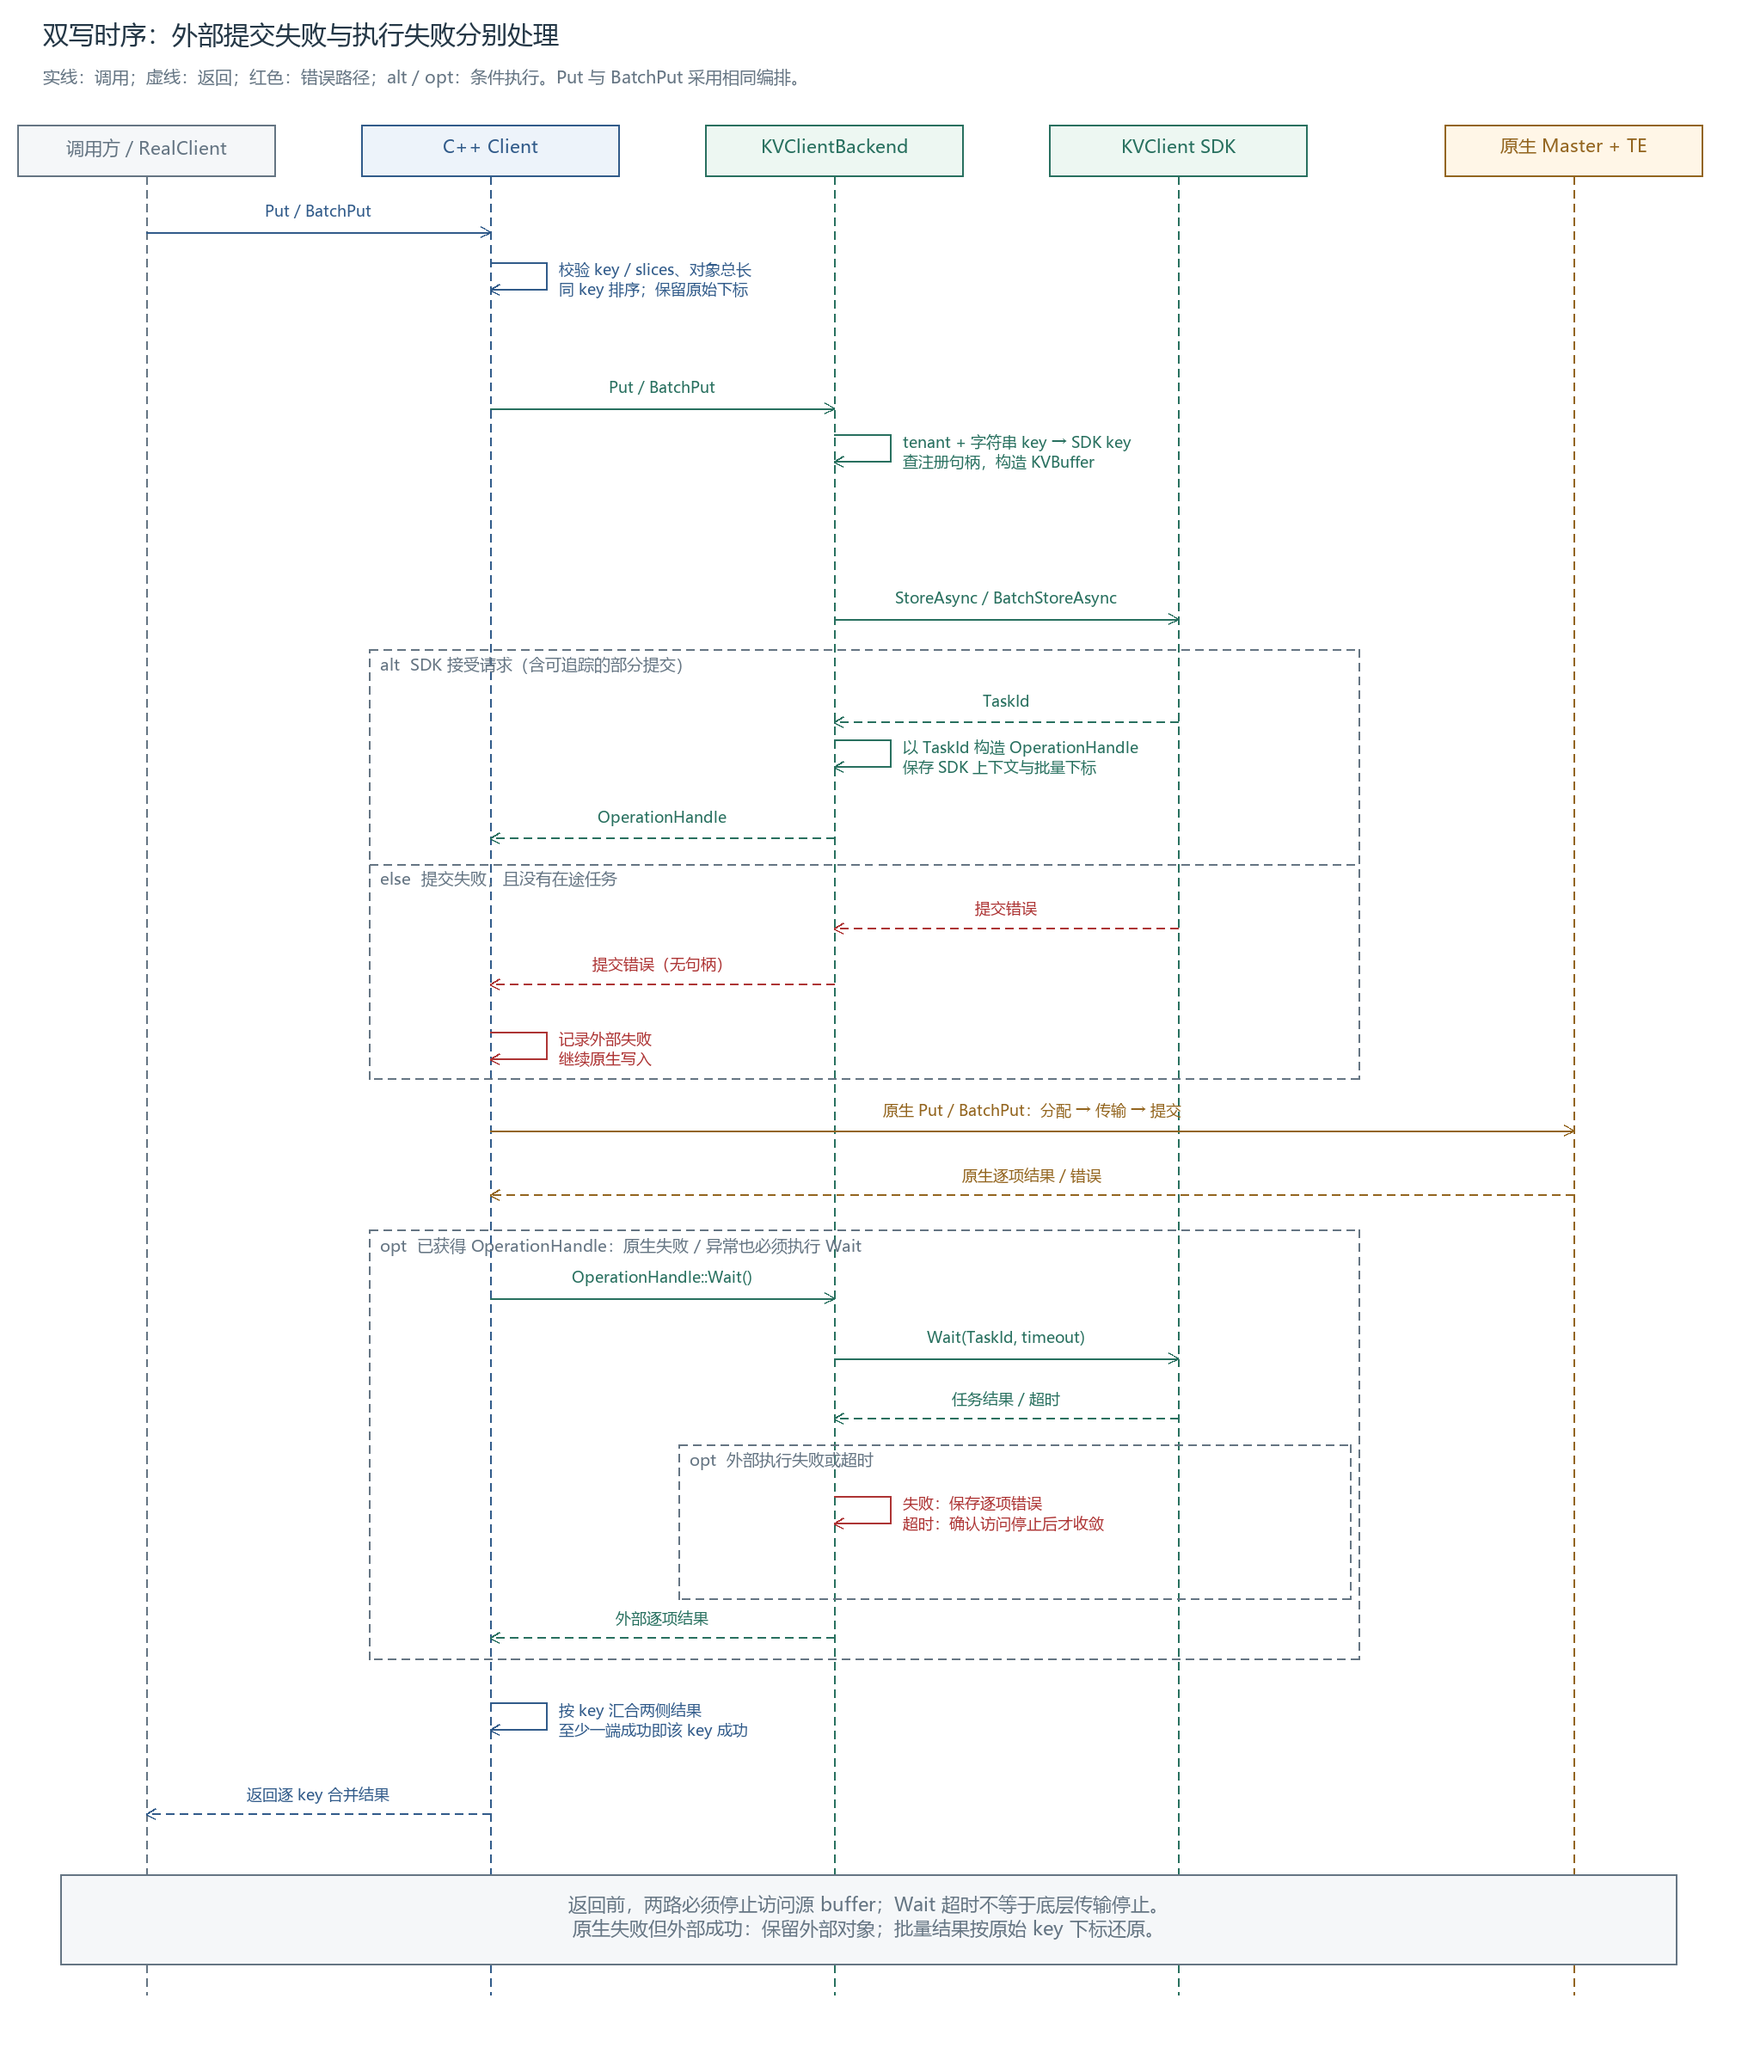
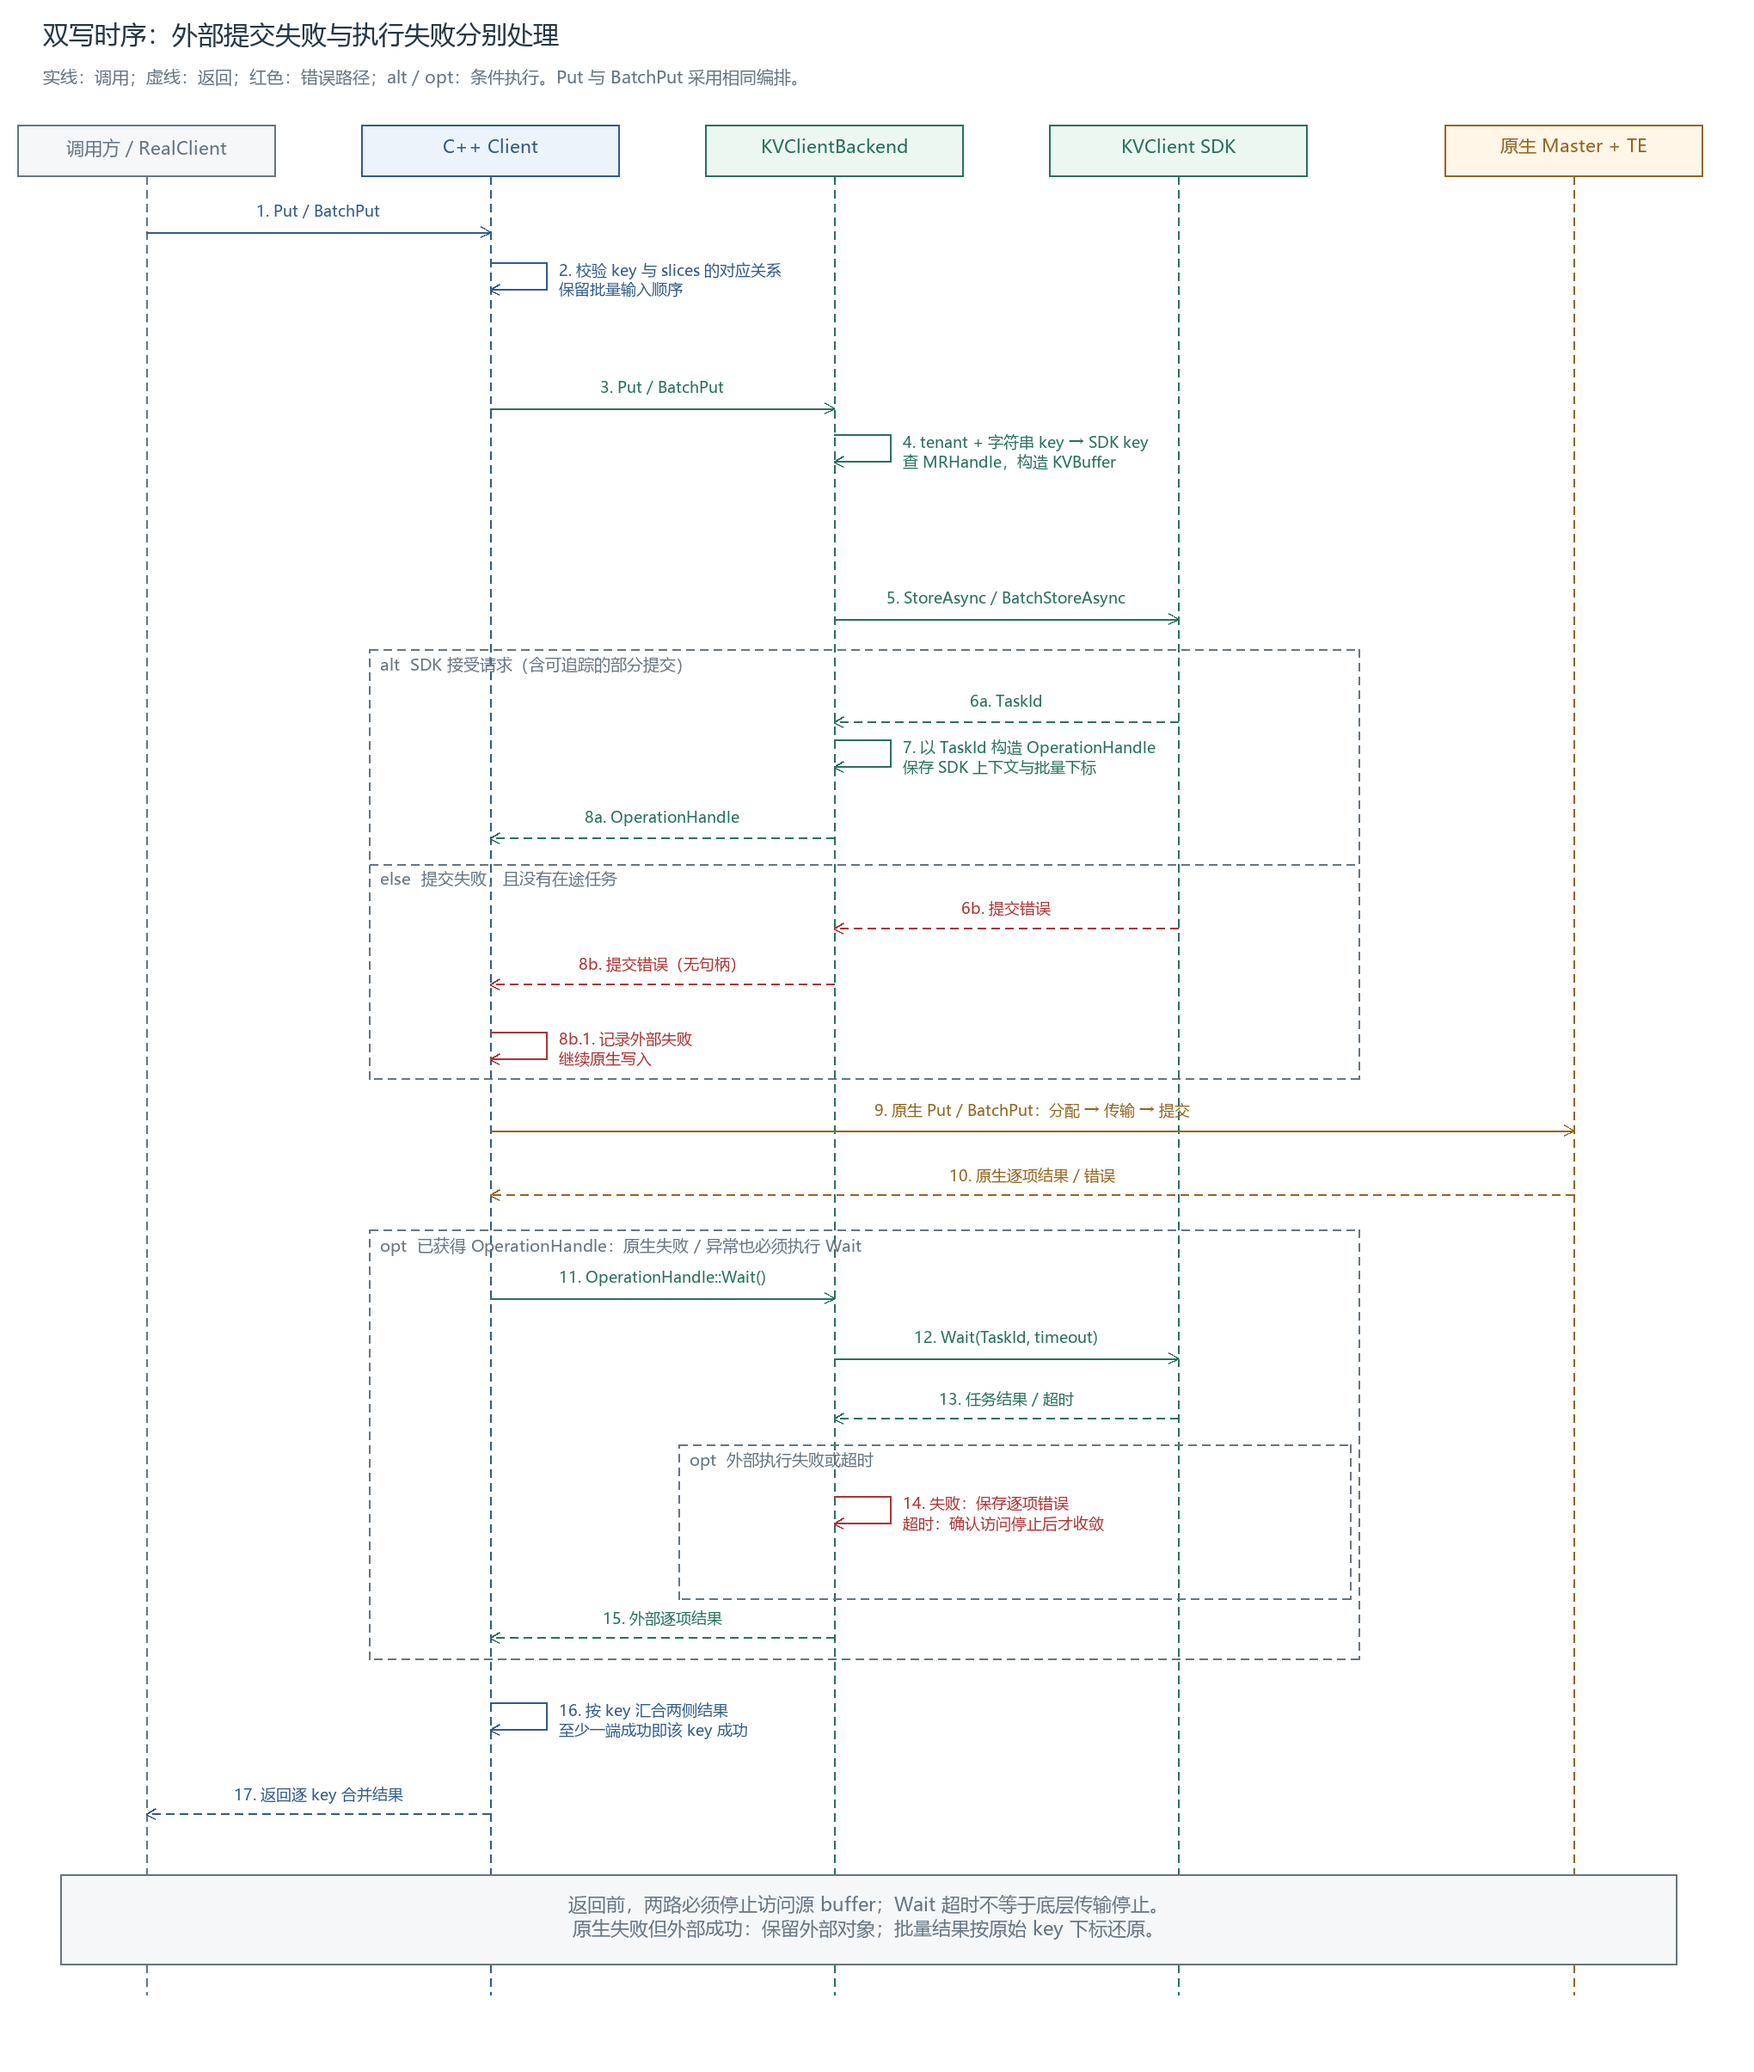
docs: refine backend interfaces and number put/remove sequence steps

diff --git a/mooncake/mooncake适配kvclient/mooncake-external-kv-design/assets/v4/generate_split_sequences.py b/mooncake/mooncake适配kvclient/mooncake-external-kv-design/assets/v4/generate_split_sequences.py
@@ -19,6 +19,10 @@ def start(name, title, subtitle, height):
 
 
 def msg(f,a,b,y,label,color='blue',reply=False):
+    put_steps={270:'1',345:'3',420:'5',540:'6a',605:'8a',710:'6b',775:'8b',945:'9',1020:'10',1140:'11',1210:'12',1280:'13',1535:'15',1740:'17'}
+    delete_steps={270:'1',345:'3',420:'5',540:'6a',605:'8a',710:'6b',775:'8b',875:'9',995:'10a',1120:'10b',1260:'10c',1460:'11',1530:'12',1600:'13',1840:'15',2040:'17'}
+    steps=put_steps if f.name.startswith('03-') else delete_steps
+    label=steps[y]+'. '+label
     lo,hi=sorted([X[a],X[b]])
     f.text(lo+8,y-32,hi-lo-16,28,label,18,C[color])
     f.arrow([(X[a],y),(X[b],y)],color,dashed=reply)
@@ -35,6 +39,8 @@ def sep(f,y,label,left=430,right=1580):
 
 
 def local(f,a,y,label,color='blue',w=360):
+    steps={305:'2',375:'4',560:'7',830:'8b.1',1370:'14',1610:'16',1680:'14',1930:'16'}
+    label=steps[y]+'. '+label
     # A self-message makes error handling part of the sequence, rather than a note box.
     x=X[a]
     f.arrow([(x,y),(x+65,y),(x+65,y+32),(x,y+32)],color)
@@ -62,9 +68,9 @@ def export_expanded(f):
 f=start('03-dual-put-sequence-split','双写时序：外部提交失败与执行失败分别处理',
         '实线：调用；虚线：返回；红色：错误路径；alt / opt：条件执行。Put 与 BatchPut 采用相同编排。',2040)
 msg(f,0,1,270,'Put / BatchPut')
-local(f,1,305,'校验 key / slices、对象总长\n同 key 排序；保留原始下标','blue',500)
+local(f,1,305,'校验 key 与 slices 的对应关系\n保留批量输入顺序','blue',500)
 msg(f,1,2,345,'Put / BatchPut','green')
-local(f,2,375,'tenant + 字符串 key → SDK key\n查注册句柄，构造 KVBuffer','green',560)
+local(f,2,375,'tenant + 字符串 key → SDK key\n查 MRHandle，构造 KVBuffer','green',560)
 msg(f,2,3,420,'StoreAsync / BatchStoreAsync','green')
 branch(f,455,430,'alt  SDK 接受请求（含可追踪的部分提交）')
 msg(f,3,2,540,'TaskId','green',True)
